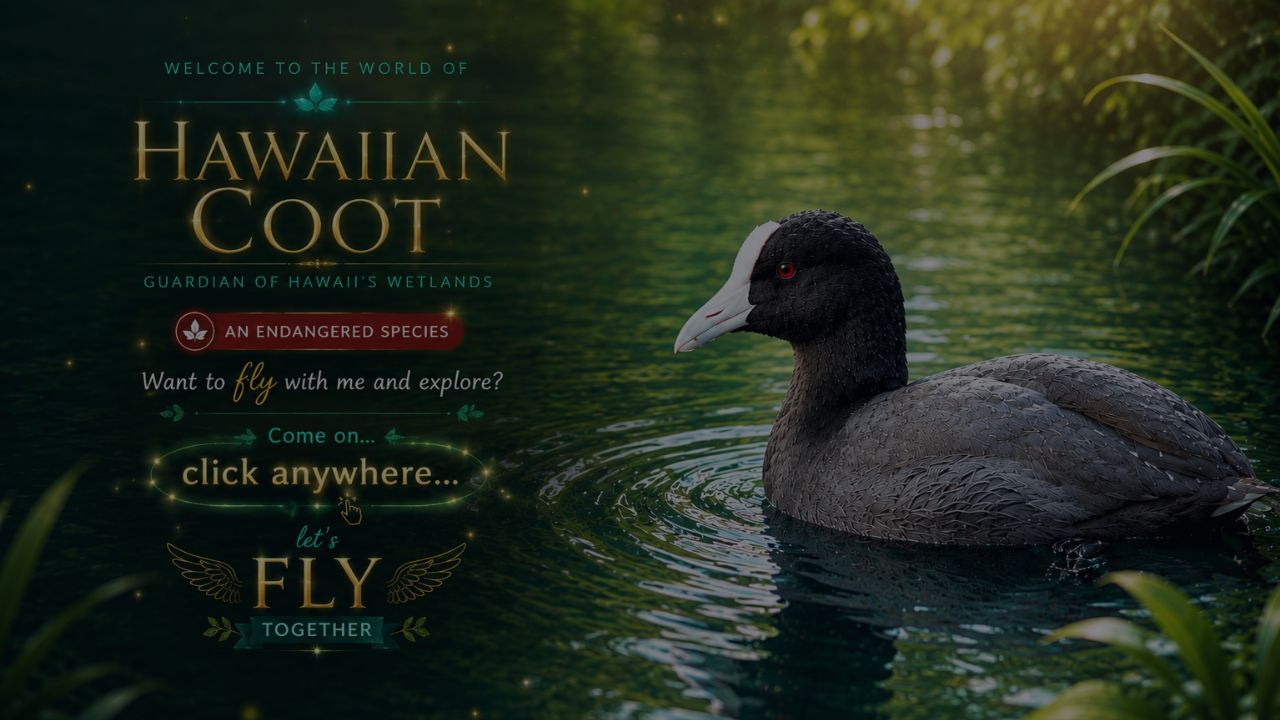
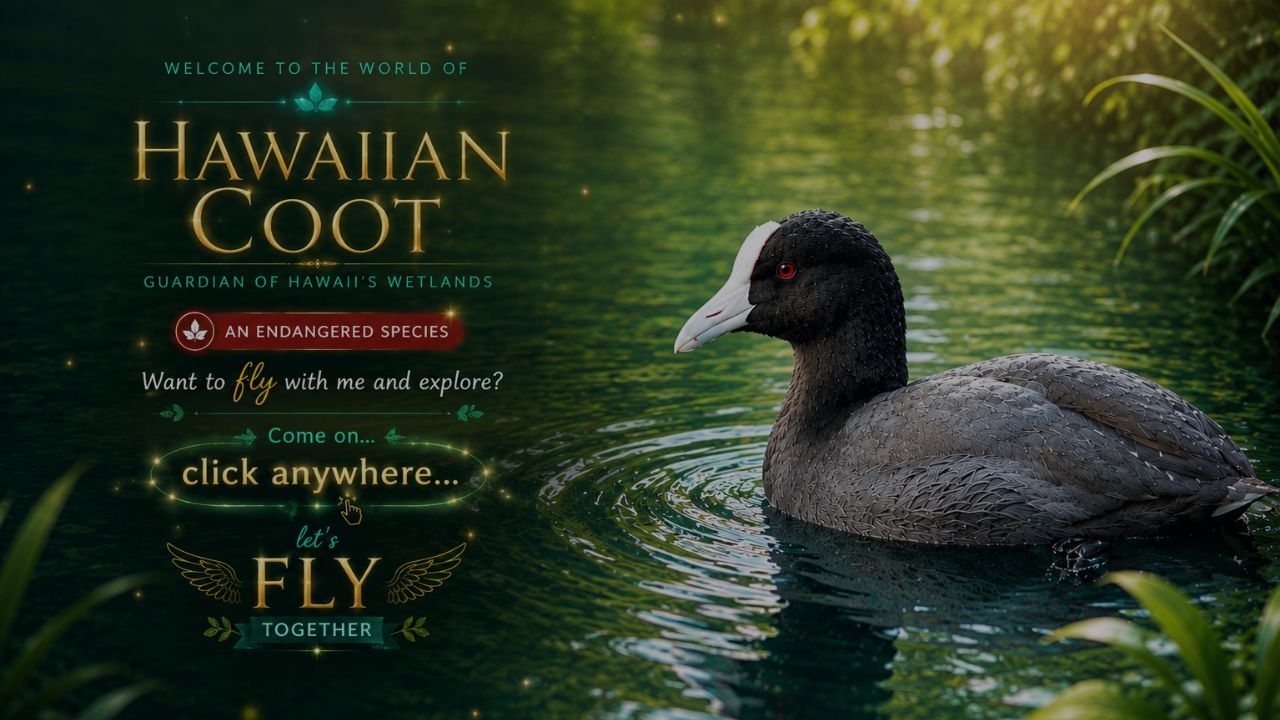
Enhance visual appeal and clarity of card elements
Refactor `HumanImpact.tsx` to improve button styling, card colors, hover effects, effect tag visibility, and image label clarity.

Replit-Commit-Author: Agent
Replit-Commit-Session-Id: 0ff26819-c633-4658-b6ec-ffe6207de2a2
Replit-Commit-Checkpoint-Type: full_checkpoint
Replit-Commit-Event-Id: da6b9493-779b-4440-859e-b0fc3090882c
Replit-Commit-Screenshot-Url: https://storage.googleapis.com/screenshot-production-us-central1/4442b8b5-b8de-4d68-9461-7d0d43422ef1/0ff26819-c633-4658-b6ec-ffe6207de2a2/4RTKpQK
Replit-Helium-Checkpoint-Created: true

diff --git a/artifacts/endangered-species/src/components/sections/HumanImpact.tsx b/artifacts/endangered-species/src/components/sections/HumanImpact.tsx
@@ -106,16 +106,16 @@ type CardData = { id: string; type: "harm" | "hope"; delta: typeof BASE; effect:
 function ImageLabel({ label, color, side }: { label: string; color: string; side: "left" | "right" }) {
   return (
     <div style={{
-      position: "absolute", top: 10, [side === "left" ? "left" : "right"]: 10, zIndex: 4,
-      background: color.replace(",1)", ",0.18)"),
-      border: `1.5px solid ${color}`,
-      borderRadius: 6, padding: "3px 10px",
-      boxShadow: `0 0 14px ${color.replace(",1)", ",0.7)")}, 0 0 4px ${color}`,
+      position: "absolute", top: 12, [side === "left" ? "left" : "right"]: 12, zIndex: 10,
+      background: "rgba(0,0,0,0.82)",
+      border: `2.5px solid ${color}`,
+      borderRadius: 7, padding: "5px 14px",
+      boxShadow: `0 0 22px ${color}, 0 0 10px ${color}, 0 0 4px ${color}, inset 0 0 10px ${color.replace(",1)", ",0.12)")}`,
     }}>
       <span style={{
-        fontFamily: "'Josefin Sans', sans-serif", fontSize: 12, color,
-        letterSpacing: "0.16em", fontWeight: 800,
-        textShadow: `0 0 10px ${color}`,
+        fontFamily: "'Josefin Sans', sans-serif", fontSize: 15, color,
+        letterSpacing: "0.22em", fontWeight: 900,
+        textShadow: `0 0 14px ${color}, 0 0 7px ${color}, 0 0 3px #fff`,
       }}>{label}</span>
     </div>
   );
@@ -469,9 +469,11 @@ export function HumanImpact() {
             return (
               <motion.div key={card.n}
                 animate={{
-                  borderColor: isActive ? cBorder : GOLDF,
-                  background:  isActive ? cFaint  : "rgba(0,0,0,1)",
-                  boxShadow:   isActive ? `0 0 22px ${cGlow}, inset 0 0 28px ${c.replace(",1)", ",0.06)")}` : "none",
+                  borderColor: isActive ? cBorder : c.replace(",1)", ",0.55)"),
+                  background:  isActive ? cFaint  : c.replace(",1)", ",0.06)"),
+                  boxShadow:   isActive
+                    ? `0 0 28px ${cGlow}, inset 0 0 28px ${c.replace(",1)", ",0.07)")}`
+                    : `0 0 10px ${c.replace(",1)", ",0.18)")}`,
                 }}
                 transition={{ duration: 0.3 }}
                 style={{
@@ -504,8 +506,9 @@ export function HumanImpact() {
                     }}
                     transition={{ scale: { duration: 0.35 }, default: { duration: 0.3 } }}
                     style={{
-                      width: "88%", height: 44, borderRadius: 8,
-                      border: `2px solid ${isActive ? cBorder : "rgba(212,175,55,0.5)"}`,
+                      width: "auto", height: 40, borderRadius: 20,
+                      padding: "0 22px",
+                      border: `2px solid ${isActive ? cBorder : c.replace(",1)", ",0.7)")}`,
                       display: "flex", alignItems: "center", justifyContent: "center", gap: 6,
                     }}
                   >
@@ -570,7 +573,10 @@ export function HumanImpact() {
                     )}
                   </AnimatePresence>
 
-                  <p style={{ fontFamily: "'Josefin Sans', sans-serif", fontSize: 14.5, color: isActive ? c : "rgba(212,175,55,0.5)", fontWeight: 700, letterSpacing: "0.05em", marginTop: 6 }}>
+                  <p style={{ fontFamily: "'Josefin Sans', sans-serif", fontSize: 16, color: c, fontWeight: 800, letterSpacing: "0.05em", marginTop: 7,
+                    textShadow: isActive ? `0 0 12px ${c}, 0 0 6px ${c}` : `0 0 6px ${c.replace(",1)", ",0.5)")}`,
+                    opacity: isActive ? 1 : 0.7,
+                  }}>
                     {card.effect}
                   </p>
                 </div>